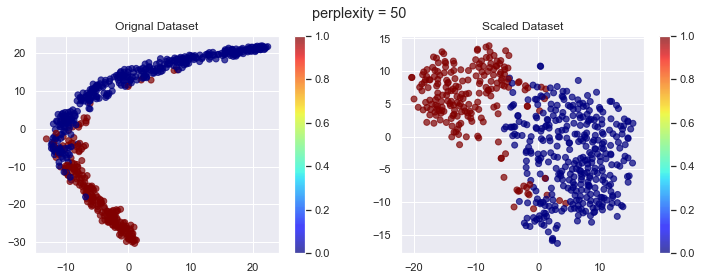
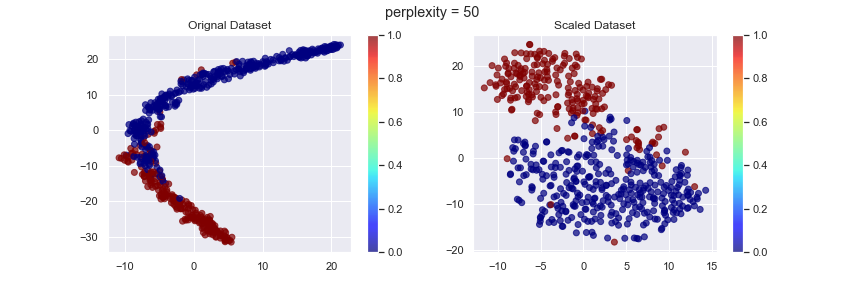
update

diff --git a/_posts/2022-03-12-Final-Project.md b/_posts/2022-03-12-Final-Project.md
@@ -51,6 +51,26 @@ cols = cols[1:12]
 sns.pairplot(df[cols],hue='diagnosis', height=1.5)
 ```
 ![pairplot.png]({{ site.baseurl }}/images/pairplot.png)
+
+The plots on the diagonal line describes the distribution of individual features in each category, and the plots in the upper triangle and the lower triangle illustrate the pairwise relationships between different features. It is obvious that there is strong correlation between the radius, the perimeter, and the area. In data analysis we only need to keep one of such features so that the features are independent to one another. By observation, we can also know that there is a linear relationship between the concavity and the concave point, and between the concavity and the compactness.
+
+### (a) Standardization
+The data type of tag diagnosis is character, "B" indicates benign and "m" indicates malignant. Use labelencoder to digitize it and encode the tag value as 0,1, so that it can be used as the training tag of the model.
+
+Every original data set may have differences in orders in dimension and different magnitudes. If we do not make modifications to them and use the original value directly, this will highlight the role of the features with higher numerical value in the analysis and weaken the role of the features with lower numerical value. To ensure the reliability of our results, we need to standardize the original data. After standardization, every feature has a mean of 0 and a standard deviation of 1.
+
+```python
+encoder = preprocessing.LabelEncoder().fit(df['diagnosis'])
+df['diagnosis'] = encoder.transform(df['diagnosis'])
+X = df.drop(['diagnosis','Ob'],axis = 1)
+y = df['diagnosis']
+X_mean=X.mean(axis=0)
+X_std=X.std(axis=0)
+X_scaled= (X-X_mean)/X_std
+```
+For comparison, We draw TSNE diagram for the original dataset and the scaled dataset.
+![TSNE.png]({{ site.baseurl }}/images/TSNE_TSNE_scaled.png)
+
 ## 1. First Step: Load Data
 First, we are going to load our data and import all the packages we need.
 ```python
